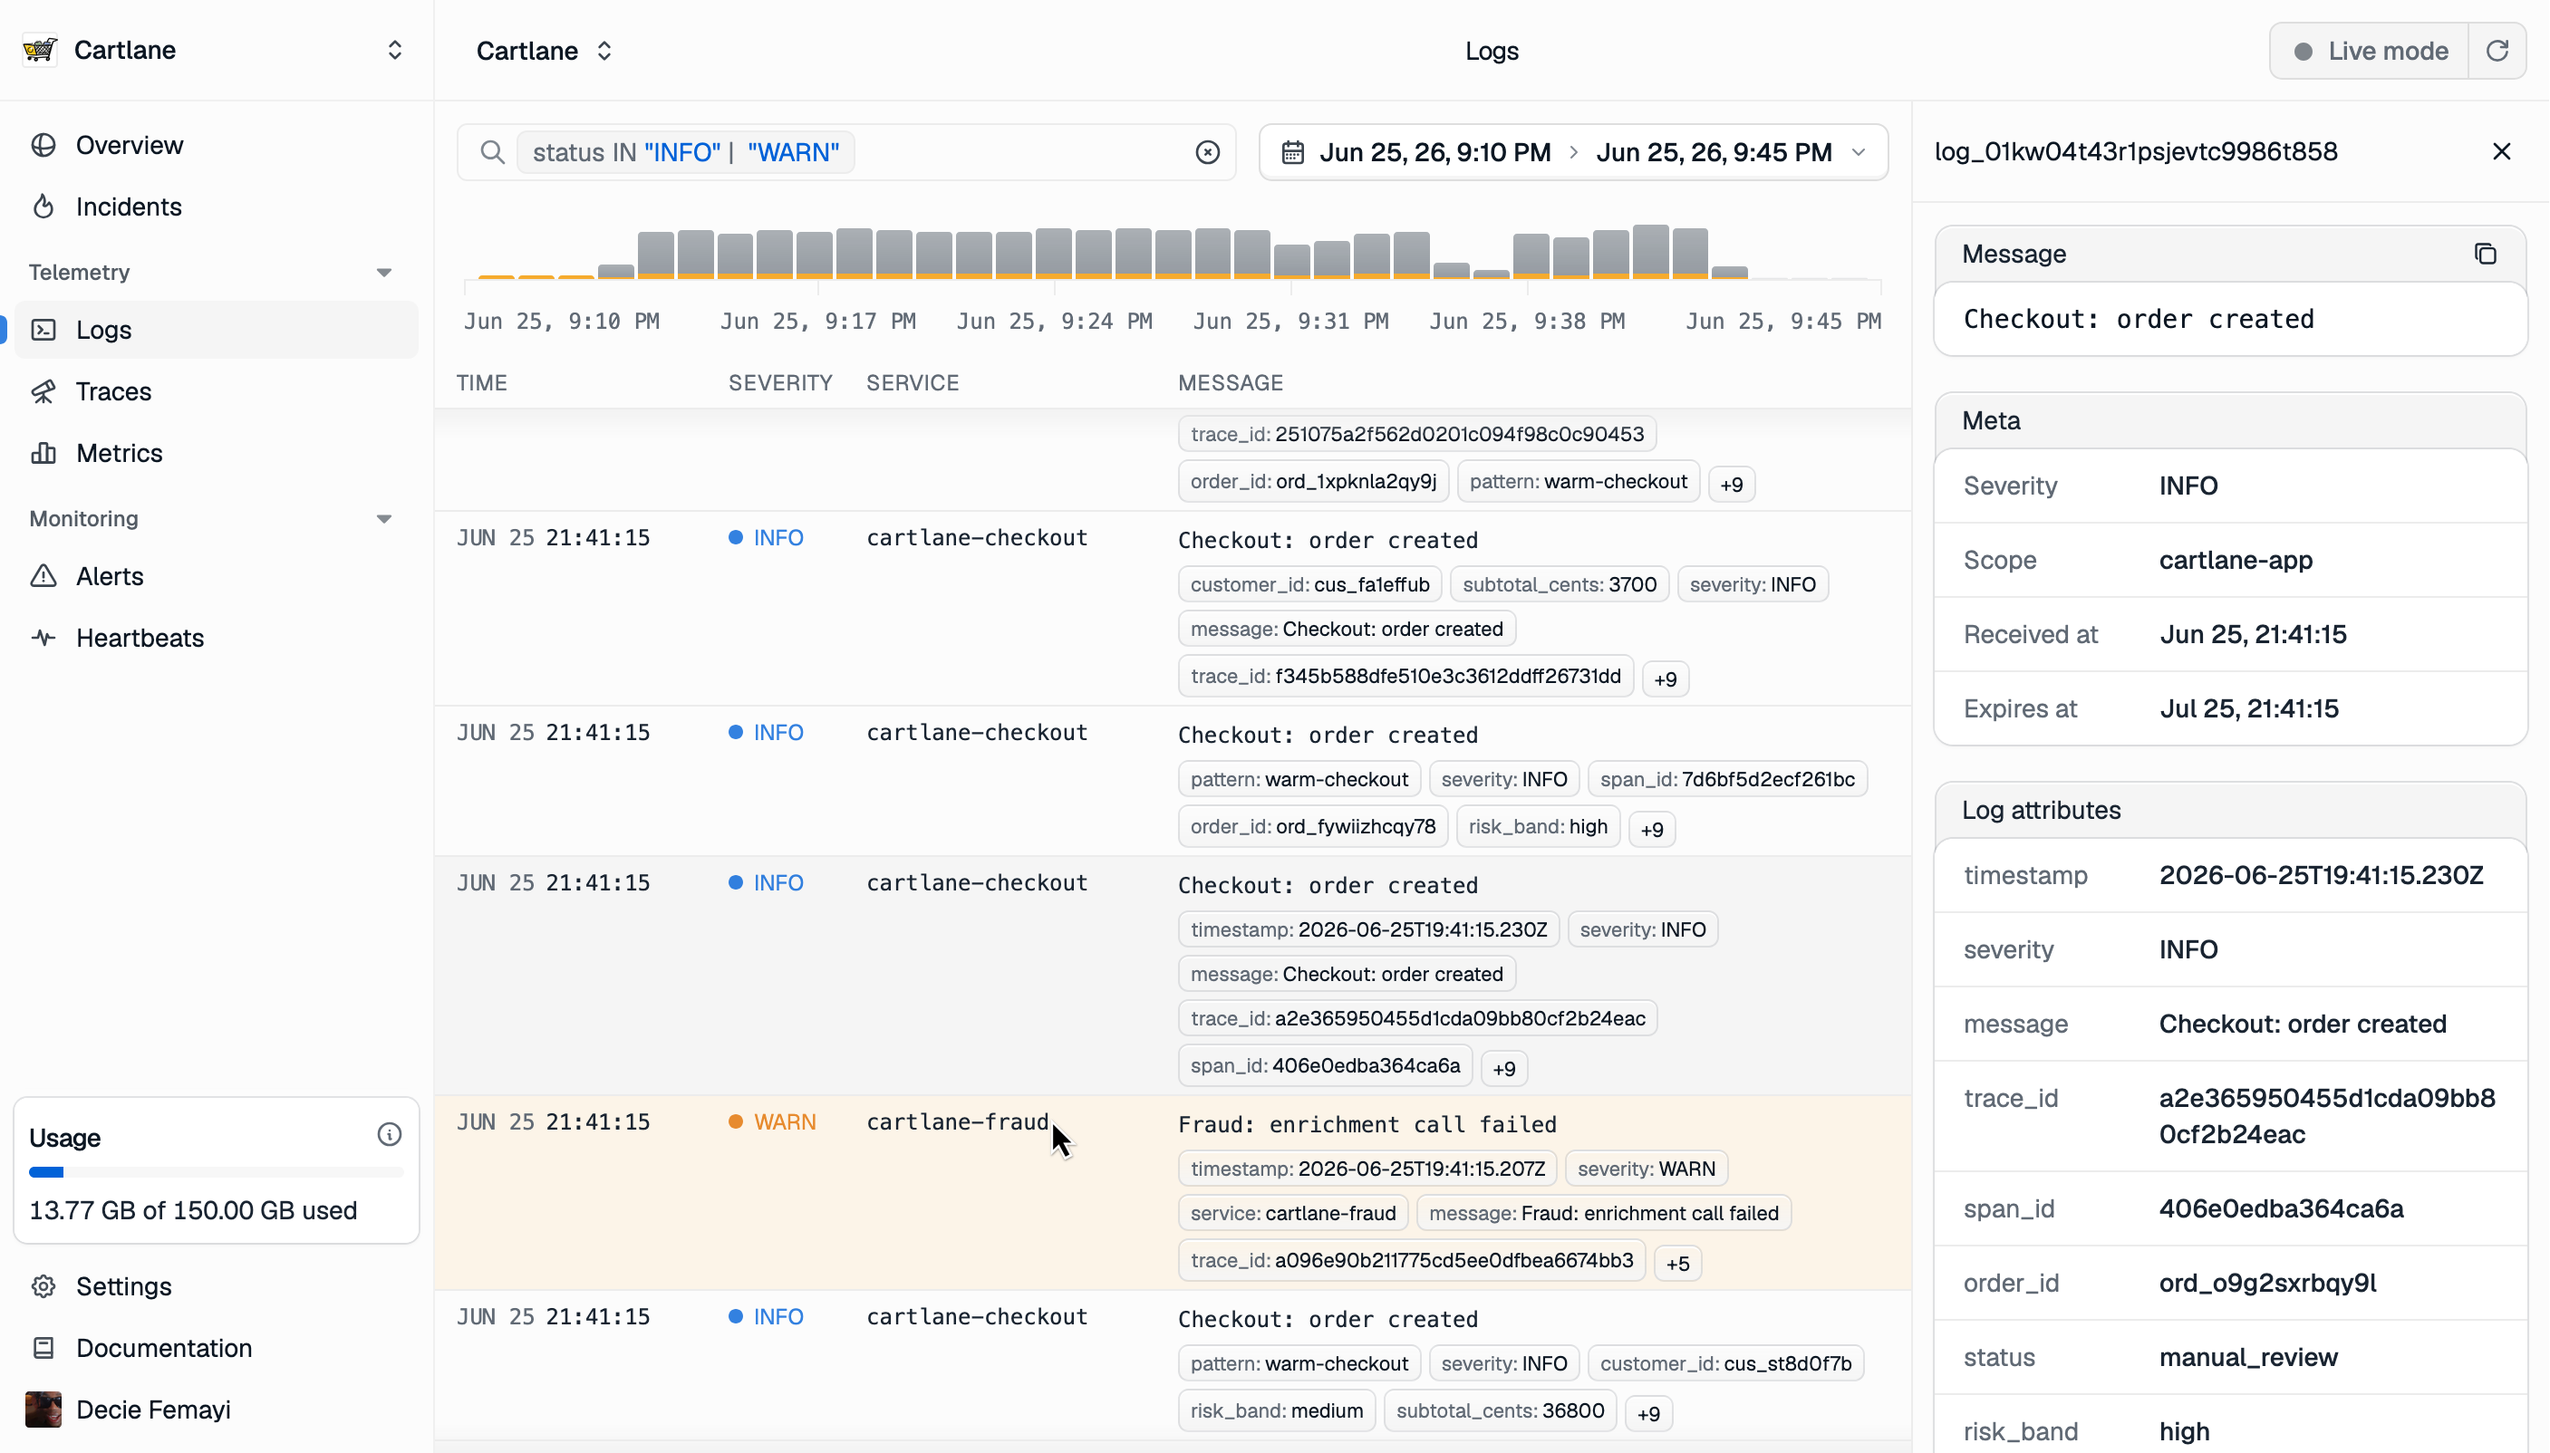
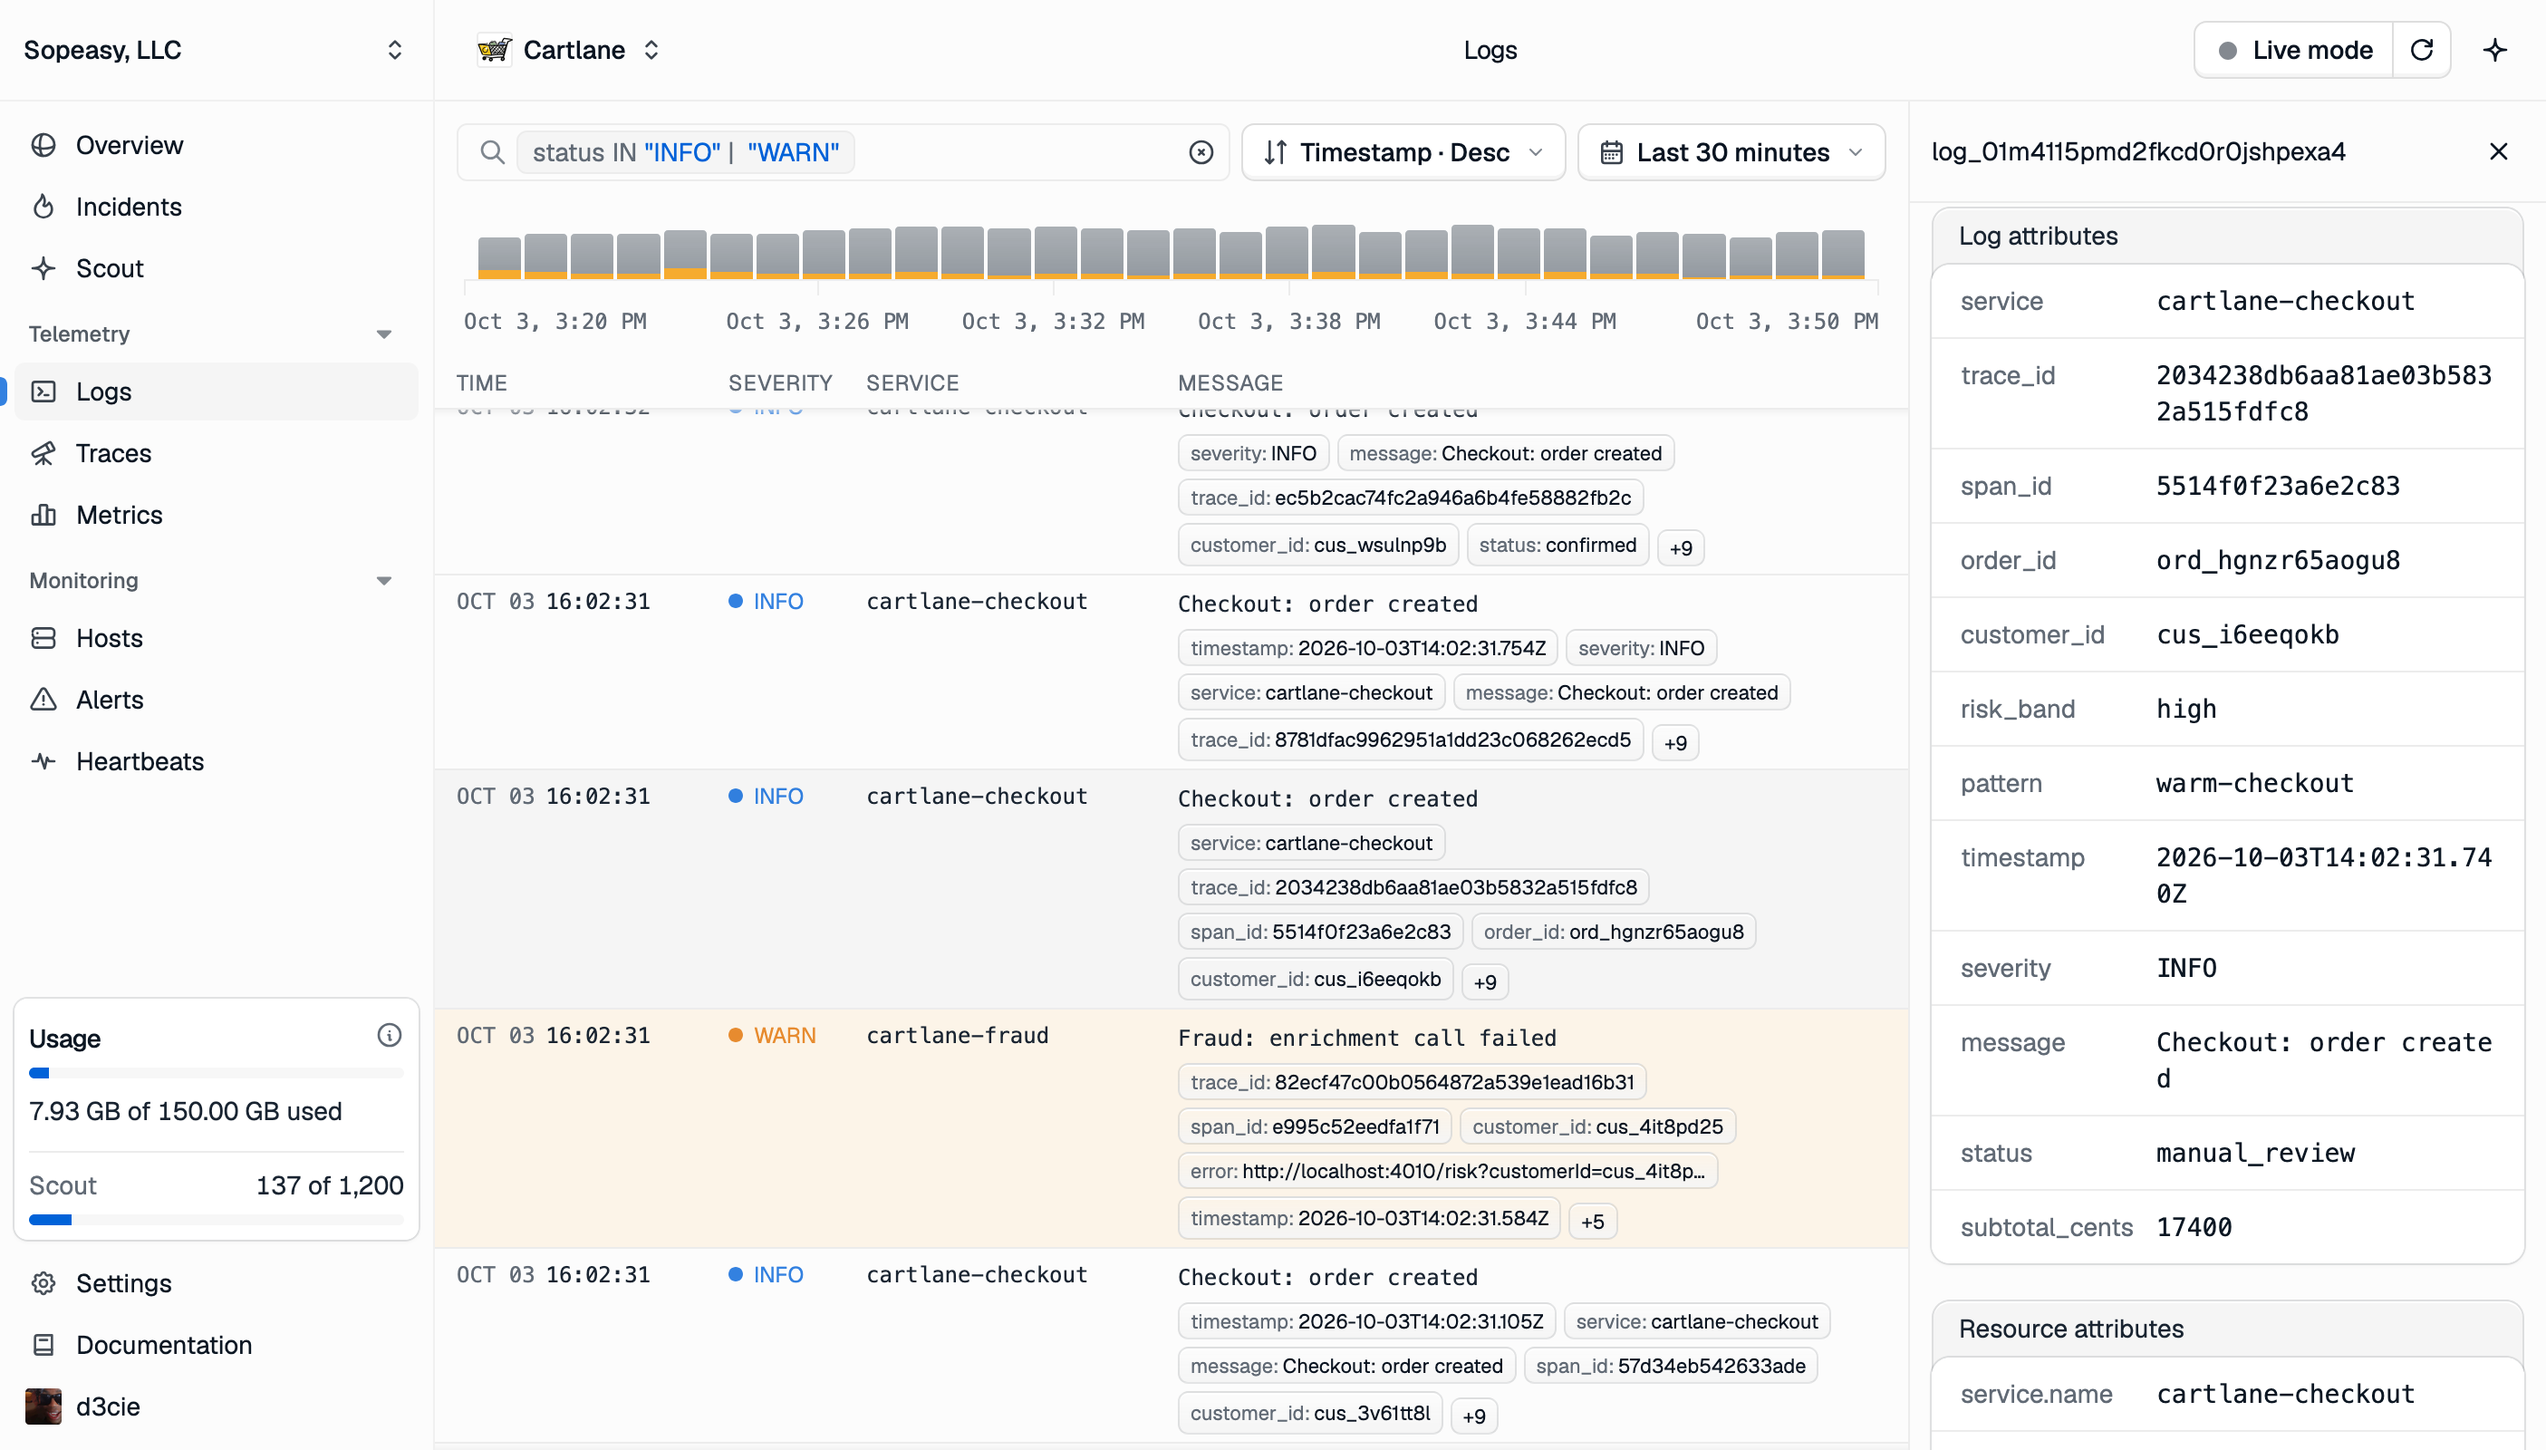
docs: refresh logs product guide

diff --git a/apps/site/content/docs/product/logs.md b/apps/site/content/docs/product/logs.md
@@ -1,6 +1,6 @@
 ---
 title: Logs
-description: Search, filter, and inspect application logs in Orvo.
+description: Search production logs with structured filters, live volume, and trace-linked detail.
 order: 2
 previous: product/overview
 next: product/traces
@@ -8,128 +8,37 @@ next: product/traces
 
 # Logs
 
-Logs are often the fastest way to answer "what just happened?" Orvo's logs view is built for narrowing quickly, then opening one event in detail.
+Orvo brings message search, structured filters, volume trends, and event detail into one log explorer. Move from a production spike to the records behind it, with service and trace context close at hand.
 
 ![Logs overview](/docs/screenshots/product/logs-screenshot-full.png)
 
-## What is it?
+## Search the fields behind the message
 
-The logs view combines:
-
-- Search and filter controls
-- A time range picker
-- A volume histogram
-- A stream of matching log events
-- A detail panel for the selected event
-
-This is the place to start when you already know the symptom: checkout failures, webhook errors, a job timing out, or a new warning spike after a release.
-
-## When to use it
-
-Use logs when you need:
-
-- The exact error message
-- Structured attributes for one event
-- A quick filter by service or environment
-- A trace ID to continue the investigation
-
-## Search
-
-You can start broad, then narrow.
-
-Examples that work well in practice:
-
-- Search a message body such as `checkout failed`
-- Filter by environment, service, or severity
-- Search for a provider-specific field such as `payment.provider`
+Search log bodies and structured attributes, then combine filters across the fields that matter to your service. Match exact values, search within text, compare numeric values, or use value suggestions to target data already in your stream. Sort by timestamp, severity, or service.
 
 ![Logs search](/docs/screenshots/product/logs-search.png)
-_Search is most useful when paired with one service and one environment instead of the entire workspace._
-
-## Filters
-
-For a real investigation, the first three filters are usually enough:
-
-- Environment
-- Service
-- Severity
-
-A useful starting point for Cartlane looks like:
-
-- `environment = production`
-- `service = checkout-api`
-- `level = error`
 
 ![Logs filters](/docs/screenshots/product/logs-filters.png)
-_Applied filters keep the stream tight enough to read without losing context._
 
-## Histogram
+## See the change in context
 
-The histogram answers a different question from the log rows: `when did the spike happen?`
-
-That helps you align logs with:
-
-- a release window
-- an incident start time
-- a trace slowdown
-- a burst of provider failures
+The volume histogram breaks activity down by severity across the selected time range. Click a bucket to focus on that interval, then compare the events around a spike. Use preset or custom ranges, live mode, and manual refresh to follow active incidents as new logs arrive.
 
 ![Logs histogram](/docs/screenshots/product/logs-histogram.png)
-_Use the volume spike to choose the right time window before you read individual events._
 
-## Inspecting log detail
+## Inspect the complete event
 
-Once you open a row, the detail panel becomes the source of truth for that event.
-
-Look for:
-
-- The exact message body
-- Severity and receive time
-- Service and environment metadata
-- Business identifiers like `order.id` and `cart.id`
-- Technical identifiers like `request.id`, `trace_id`, and `span_id`
+Keep the message, severity, environment, scope, and timestamps together with the event's log, resource, and scope attributes. Structured values stay readable in the detail panel, so useful context does not disappear inside a flattened line.
 
 ![Logs detail](/docs/screenshots/product/logs-detail.png)
-_The detail view is where the raw event becomes actionable context._
 
-## Attributes and linked traces
+## Follow the request
 
-The highest-value logs are the ones that carry enough context to continue the investigation somewhere else.
-
-In practice, that usually means a log should contain:
-
-- a service name
-- a route or operation name
-- an environment
-- a trace ID
-- one or two business identifiers
+When a log includes trace context, open its trace to see the spans behind the event and how the request moved across services. Move from a precise log record into [Traces](/docs/product/traces) without searching for the same request again.
 
 ![Logs linked trace](/docs/screenshots/product/logs-linked-trace.png)
-_A good log makes the jump to trace context obvious instead of forcing you to guess._
 
-## Common workflows
-
-### Find the failing request
-
-Filter to one service and severity, then search for the message pattern you already suspect.
-
-### Compare before and after a spike
-
-Use the histogram first, then inspect a few representative rows from each side of the spike.
-
-### Pivot from logs to traces
-
-Open the failing log and follow its trace context into [Traces](/docs/product/traces).
-
-## Best practices
-
-- Use structured attributes, not only free-form messages.
-- Keep service names stable.
-- Always set `deployment.environment`.
-- Include request and business IDs when they matter.
-- Do not log secrets, tokens, or raw card data.
-
-## Related pages
+## Explore the rest of the signal
 
 - [Traces](/docs/product/traces)
 - [Metrics](/docs/product/metrics)
